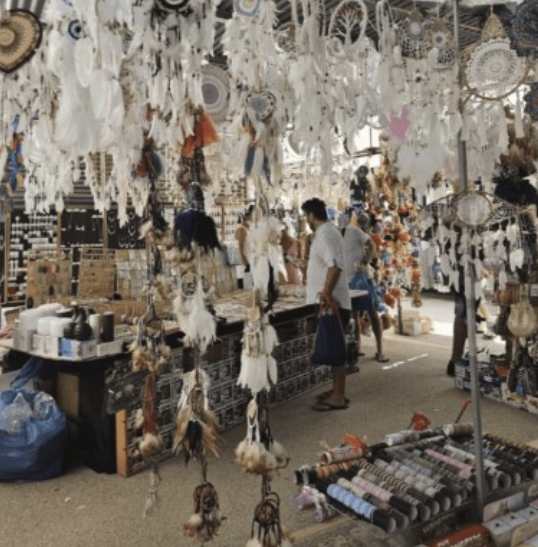
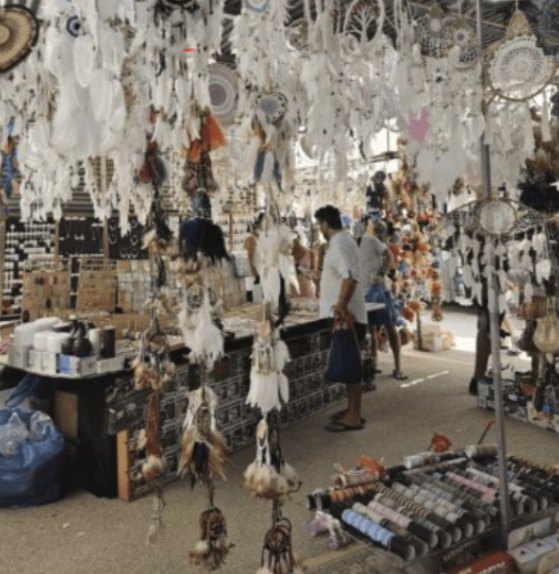
Ontdek: Lemon Tree-foto (afb 2) opnieuw op plek 1 + cache-bust
Made-with: Cursor

diff --git a/public/index.html b/public/index.html
@@ -17,7 +17,7 @@
   <link href="https://fonts.googleapis.com/css2?family=Cormorant+Garamond:wght@500;600&family=DM+Sans:wght@400;500;600&display=swap" rel="stylesheet" />
   <link rel="preload" as="image" href="/assets/logo-casa-pheli-header.jpg" fetchpriority="high" />
   <link rel="preload" as="image" href="/assets/hero-area-beach-complex.png" fetchpriority="high" />
-  <link rel="stylesheet" href="/styles.css?v=243" />
+  <link rel="stylesheet" href="/styles.css?v=244" />
 </head>
 <body id="page-top">
   <header class="site-header">
@@ -671,10 +671,10 @@
                 aria-label="Foto vergroten: Lemon Tree Market"
               >
                 <img
-                  src="/assets/discover-lemon-tree-market.png"
+                  src="/assets/discover-lemon-tree-market.png?v=2"
                   alt="Kraampjes op de Lemon Tree Market tussen Guardamar en El Raso"
-                  width="538"
-                  height="547"
+                  width="559"
+                  height="574"
                   loading="eager"
                   fetchpriority="low"
                   decoding="async"
